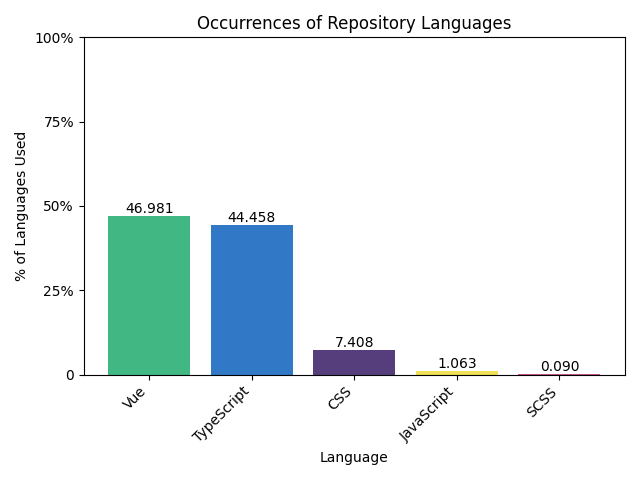
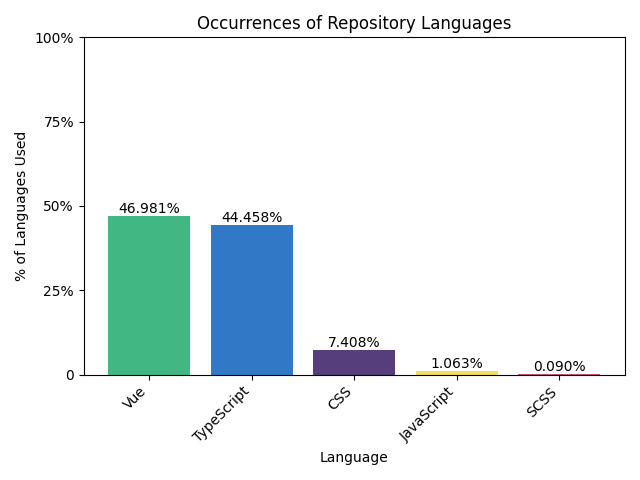
Dockerized Python/FastAPI for deployment

diff --git a/controller/total_utilization_controller.py b/controller/total_utilization_controller.py
@@ -57,7 +57,7 @@ async def create_multi_bar_chart(repo_id: int):
             # Add labels with values above each bar
             for bar in bars:
                 height = bar.get_height()
-                plt.text(bar.get_x() + bar.get_width() / 2, height, '{:.3f}'.format(height), ha='center', va='bottom')
+                plt.text(bar.get_x() + bar.get_width() / 2, height, '{:.3f}%'.format(height), ha='center', va='bottom')
 
             # Show plot
             # plt.show()
